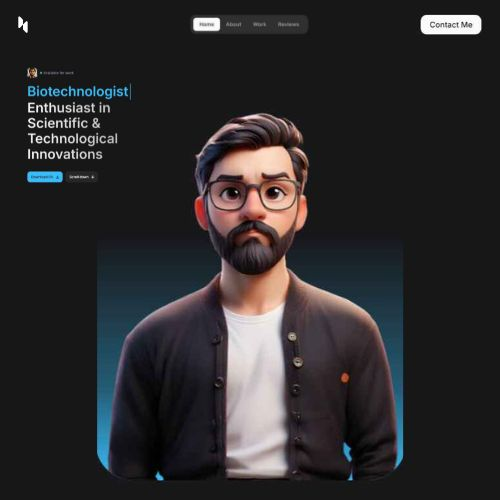
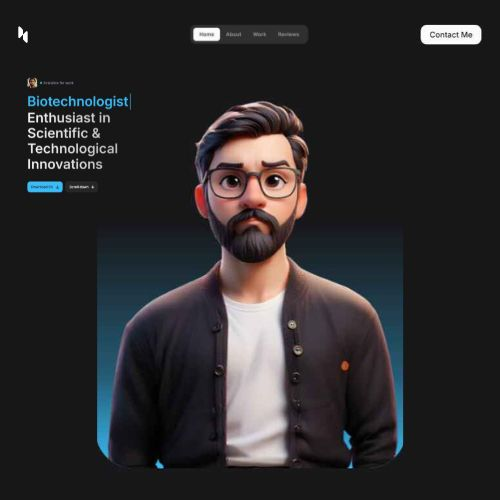
changes

diff --git a/src/Subcomponents/BodyComponents/FeaturedIndividualComponent.jsx b/src/Subcomponents/BodyComponents/FeaturedIndividualComponent.jsx
@@ -16,12 +16,12 @@ const FeaturedIndividualComponent = ({topType, imgSrc, title, linkName, info, bu
             <img
               src={imgSrc}
               alt="GitHub Projects"
-              className="w-full h-full object-cover object-center transition-transform duration-300 group-hover:scale-105"
+              className="w-full h-full object-cover object-center transition-transform duration-300 group-hover:scale-125 group-hover:translate-y-[-20%]"
             />
           </div>
 
           {/* Text and info container */}
-          <div className="relative bg-[#1b1f23] h-[60px] overflow-hidden transition-all duration-300 group-hover:h-[160px]">
+          <div className="relative bg-[#1b1f23] h-[60px] overflow-hidden transition-all duration-300 group-hover:h-[130px]">
             {/* Moving text */}
             <div className="px-4 pt-2 transition-transform duration-300">
               <p className="text-base font-semibold text-white">{title}</p>
